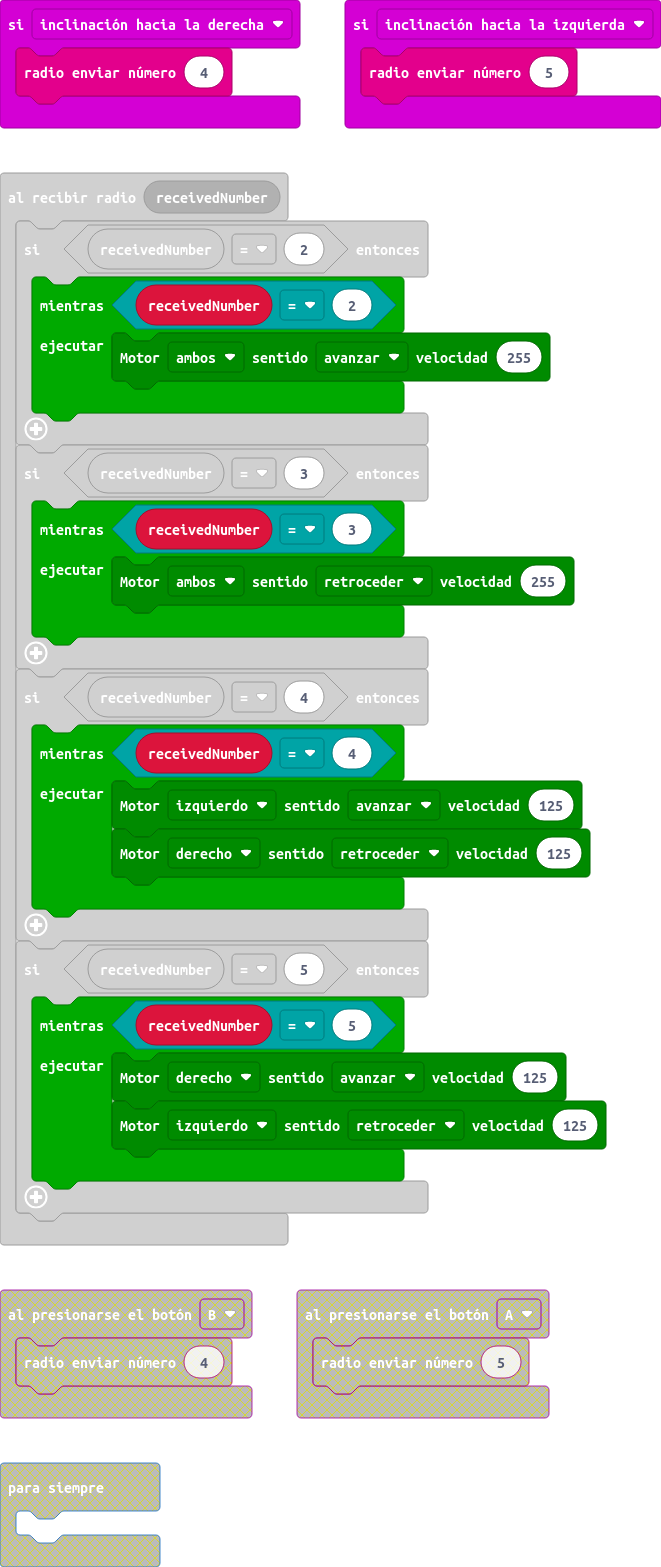
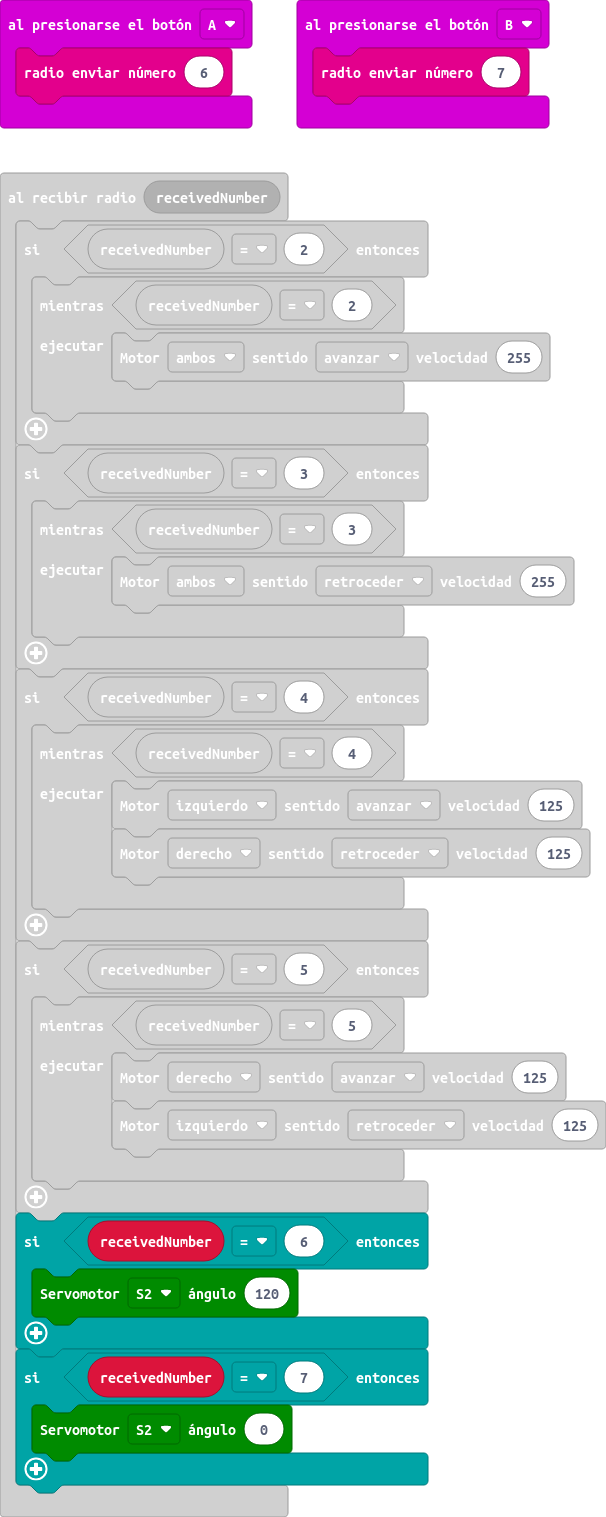
Actualizar main.blocks, main.ts

diff --git a/main.ts b/main.ts
@@ -21,9 +21,18 @@ radio.onReceivedNumber(function (receivedNumber) {
             maqueen.motorRun(maqueen.Motors.M1, maqueen.Dir.CCW, 125)
         }
     }
+    if (receivedNumber == 6) {
+        maqueen.servoRun(maqueen.Servos.S2, 120)
+    }
+    if (receivedNumber == 7) {
+        maqueen.servoRun(maqueen.Servos.S2, 0)
+    }
 })
 input.onGesture(Gesture.ScreenDown, function () {
     radio.sendNumber(3)
+})
+input.onButtonPressed(Button.A, function () {
+    radio.sendNumber(6)
 })
 input.onGesture(Gesture.ScreenUp, function () {
     radio.sendNumber(2)
@@ -33,5 +42,8 @@ input.onGesture(Gesture.TiltRight, function () {
 })
 input.onGesture(Gesture.TiltLeft, function () {
     radio.sendNumber(5)
+})
+input.onButtonPressed(Button.B, function () {
+    radio.sendNumber(7)
 })
 radio.setGroup(1)
